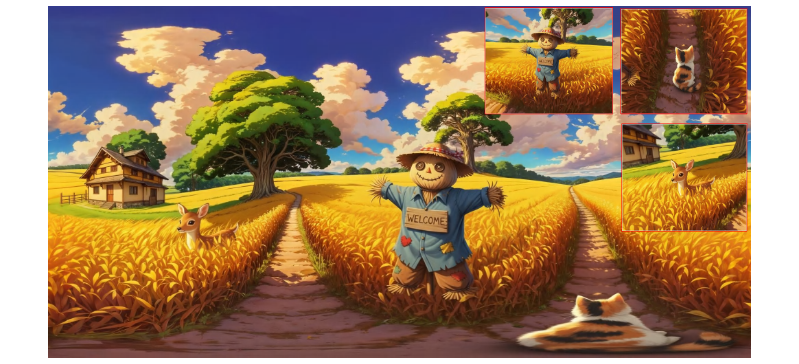
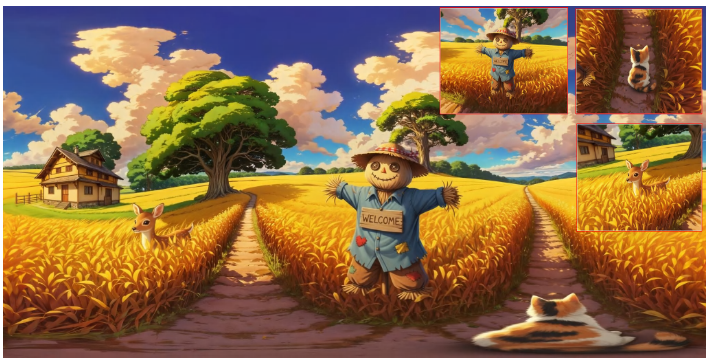
Show WorldShaper teaser without cropping

diff --git a/_includes/publications.md b/_includes/publications.md
@@ -9,7 +9,7 @@
 <div class="pub-row">
   <div class="col-sm-3 abbr" style="position: relative;padding-right: 15px;padding-left: 15px;">
     {% if link.image %} 
-    <img src="{{ link.image }}" class="teaser img-fluid z-depth-1" style="width=100;height=40%">
+    <img src="{{ link.image }}" class="teaser img-fluid z-depth-1"{% if link.image_fit %} style="object-fit: {{ link.image_fit }}; background-color: #fff;"{% endif %}>
     {% endif %}
     {% if link.conference_short %} 
     <abbr class="badge">{{ link.conference_short }}</abbr>
@@ -62,4 +62,3 @@
 
 </ol>
 </div>
-
